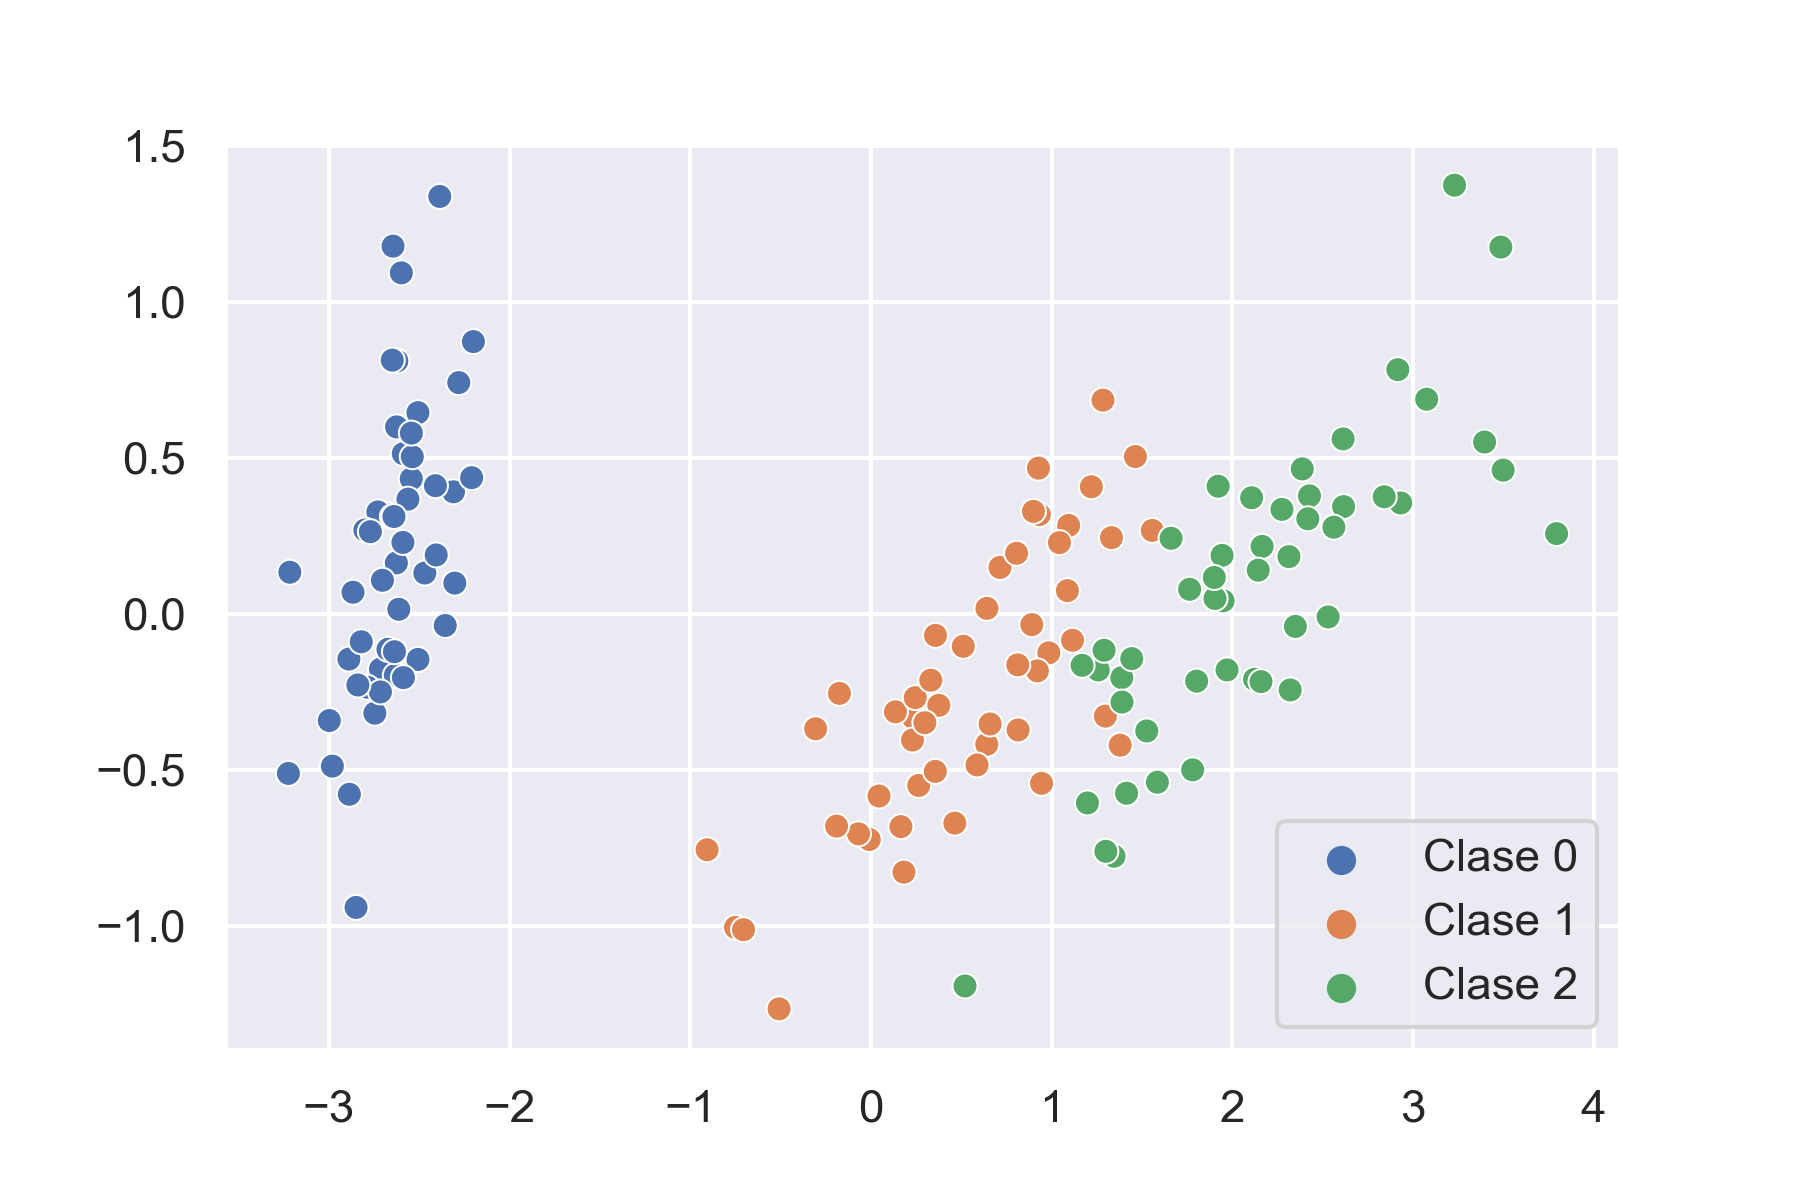
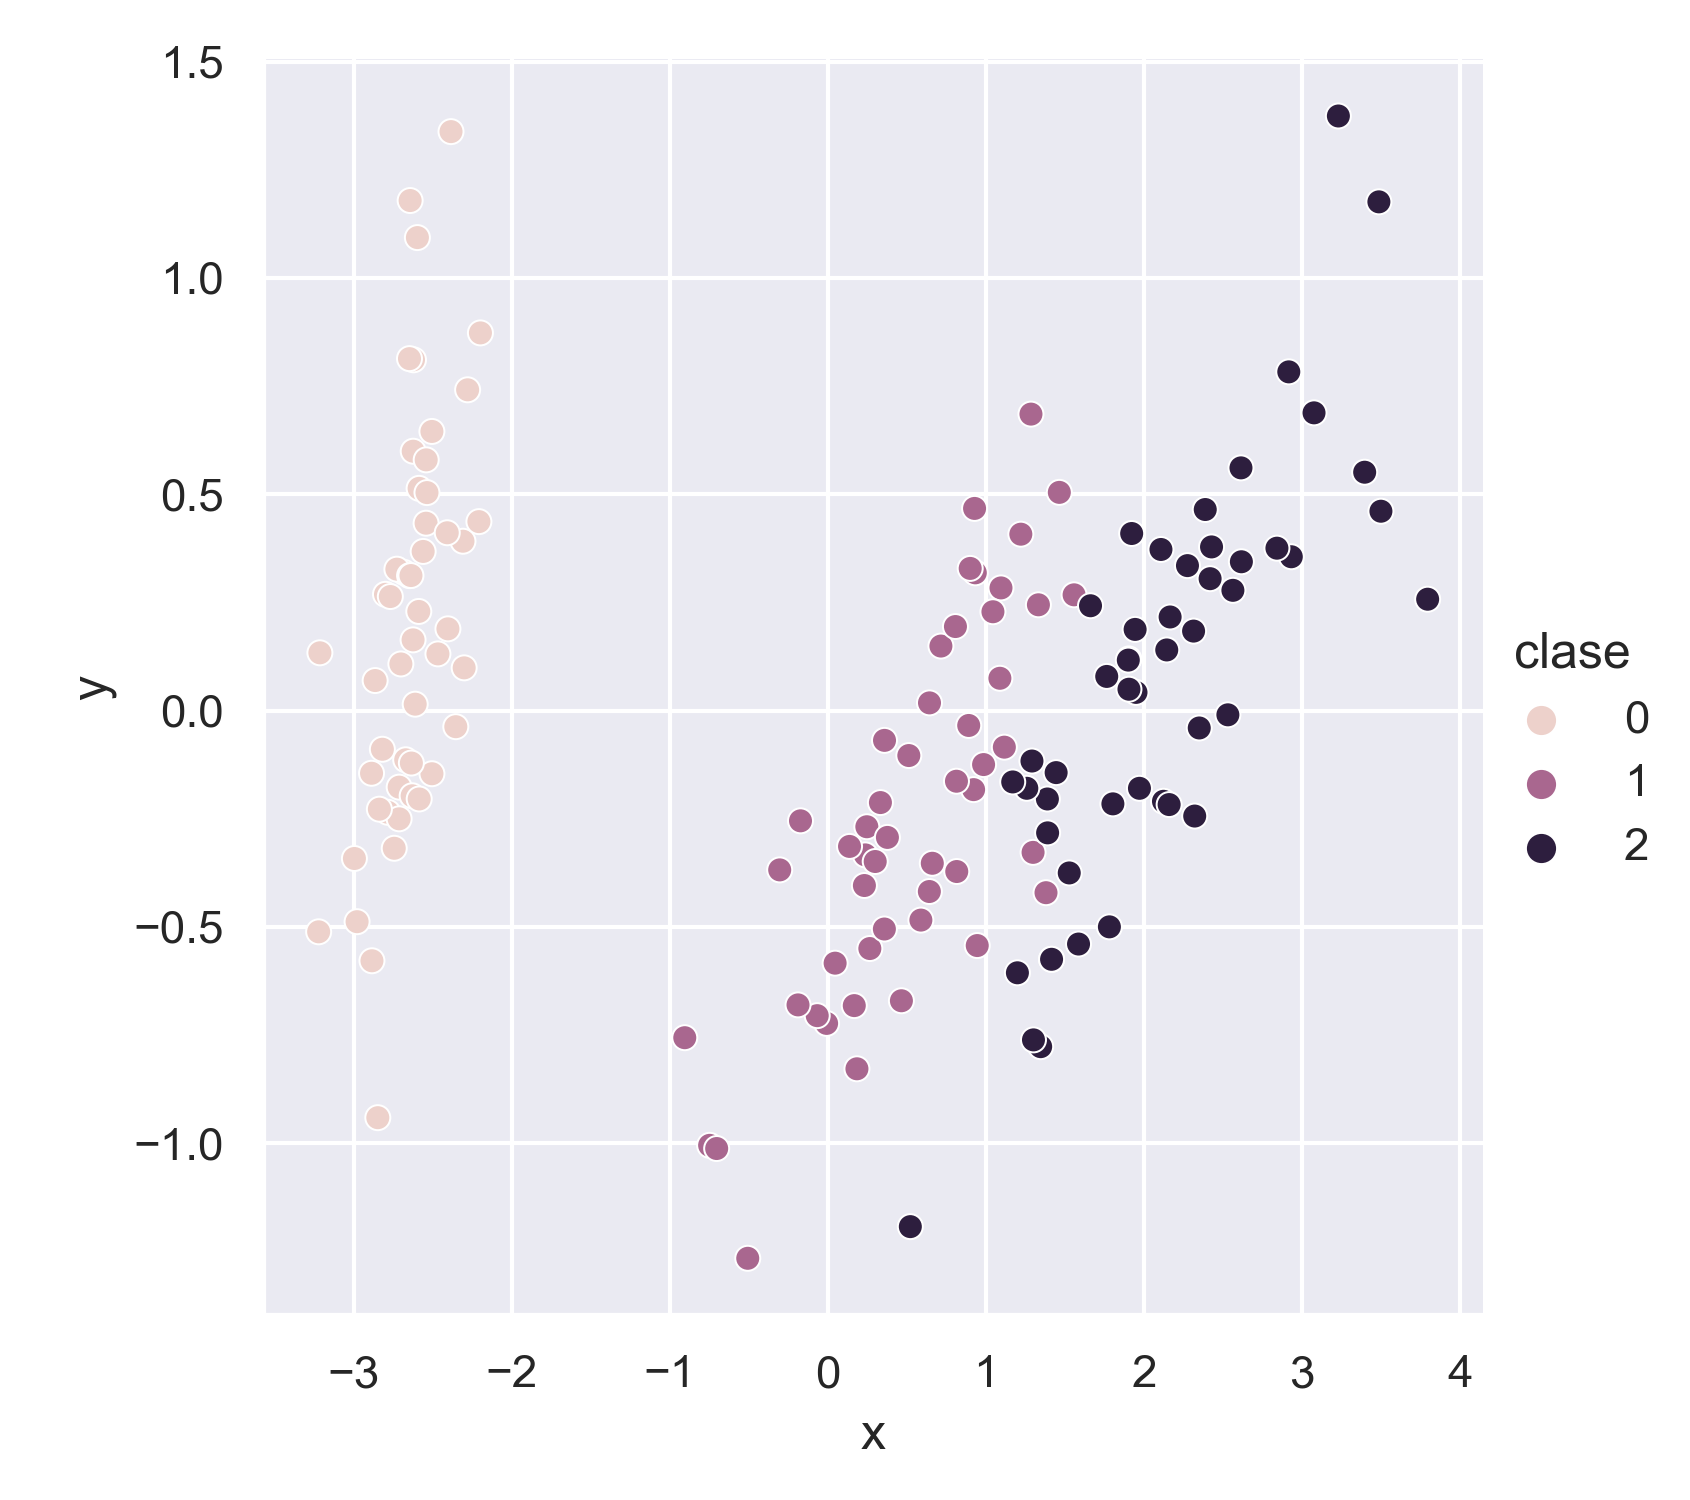
Actualizacion figura ReduccionDim

diff --git a/docs/capitulos/05ReduccionDim.md b/docs/capitulos/05ReduccionDim.md
@@ -28,6 +28,7 @@ from sklearn.naive_bayes import GaussianNB
 from sklearn import decomposition
 from EvoMSA.model import GaussianBayes
 import numpy as np
+import pandas as pd
 from matplotlib import pylab as plt
 import seaborn as sns
 sns.set_theme()
@@ -524,18 +525,18 @@ Habiendo importado los datos el siguiente paso es inicializar la clase de PCA, p
 ```python
 pca = decomposition.PCA(n_components=2).fit(D)
 Xn = pca.transform(D)
-plt.plot(Xn[:, 0], Xn[:, 1], '.')
 ```
 
 El siguiente código se utiliza para visualizar los datos. El 
-resultado se muestra en la siguiente figura, donde se observa
-de azul los elementos que corresponden a la clase 0, en naranja
-los de la clase 1 y en verde los de la clase 2.
+resultado se muestra en la figura contigua, donde se observa
+en diferente color cada una de las clases.
 
 ```python
-sns.scatterplot(hue=[f'Clase {x}' for x in y],
-                x=Xn[:, 0], 
-                y=Xn[:, 1])
+
+data = pd.DataFrame([dict(x=x, y=y, clase=c)
+                     for (x, y), c in zip(Xn, y)])
+sns.relplot(data, kind='scatter',
+            x='x', y='y', hue='clase')
 ```
 
 <!--
